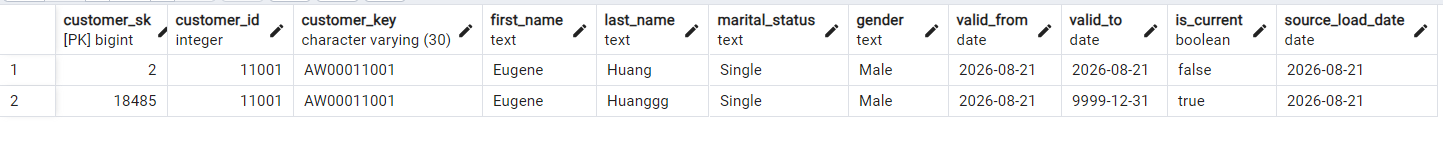
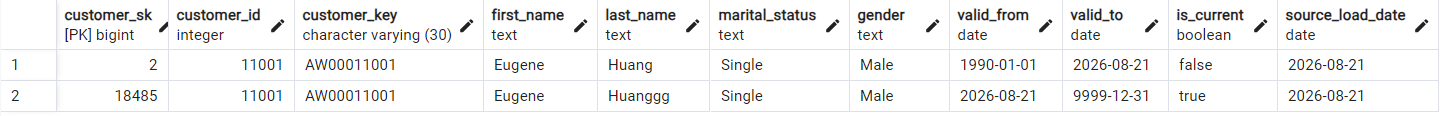
replaced screenshot

diff --git a/docs/content/blog/data-warehouse-postgressql-implementation.md b/docs/content/blog/data-warehouse-postgressql-implementation.md
@@ -186,38 +186,75 @@ BEGIN
 We will use the following star schema dimension model for analytics.  
 ![Star Schema](/images/Dimensional_Model.png)  
 The gold layer will be utilized as views in PostgreSQL.    
-#### Script for creating gold layer customer dimension table as a view  
+#### Script for creating gold layer fact and dimensions as a view  
 ```sql
+
 -- CREATE customer dimension by joining customer, customer_detail and customer_location tables
-DROP VIEW gold.dim_customer;
+DROP VIEW IF EXISTS gold.dim_customer;
 CREATE VIEW gold.dim_customer AS
-SELECT c.customer_sk,
-	   c.customer_id,
-	   c.first_name,
-	   c.last_name,
-	   c.marital_status,
-	   COALESCE(c.gender,cd.gender) as gender,
-	   cd.birth_date,
-	   loc.country,
-	   c.valid_from,
-       c.valid_to,
-       c.is_current
+SELECT 
+    c.customer_sk,
+    c.customer_id,
+    c.customer_key,
+    c.first_name,
+    c.last_name,
+    c.marital_status,
+    COALESCE(c.gender, cd.gender) AS gender,
+    cd.birth_date,
+    loc.country,
+    c.valid_from,
+    c.valid_to,
+    c.is_current
 FROM silver.customer c
-LEFT JOIN silver.customer_location loc
-	ON c.customer_id=loc.customer_id
-	AND loc.valid_from <= c.valid_from
-    AND (loc.valid_to > c.valid_from OR loc.valid_to IS NULL)
-	-- This dimension is only recording customer history. If a location changes but customer doesn't at the same time
-	-- this logic will fail and will take old location value because new locations value_from > customers value_from
-	-- I will fix this later after learning more about these patterns.
-LEFT JOIN silver.customer_details cd
-	ON c.customer_id=cd.customer_id;
+LEFT JOIN silver.customer_location loc 
+    ON c.customer_id = loc.customer_id
+LEFT JOIN silver.customer_details cd 
+    ON c.customer_id = cd.customer_id;
+
+-- CREATE product dimension by joining products and category tables
+DROP VIEW IF EXISTS gold.dim_product;
+CREATE VIEW gold.dim_product AS
+Select p.products_sk,
+	   p.product_number,
+	   p.product_category,
+	   p.product_sales_key,
+	   p.product_name,
+	   p.product_cost,
+	   p.product_line,
+	   c.category_name,
+	   c.sub_category,
+	   c.maintenance_required
+FROM silver.products p
+JOIN silver.category c
+	ON p.product_category=c.category_id;
+
+-- CREATE fact sales view
+DROP VIEW IF EXISTS gold.fact_sales;
+CREATE VIEW gold.fact_sales AS
+SELECT
+    s.sales_id as order_number,
+    s.product_key,
+    c.customer_sk AS customer_sk,
+    s.order_date,
+    s.ship_date,
+	s.due_date,
+	(s.quantity * s.price) as sales_amount,
+	s.quantity,
+	s.price
+FROM silver.sales s
+JOIN silver.customer c 
+    ON s.customer_id = c.customer_id
+    AND s.order_date >= c.valid_from AND (s.order_date < c.valid_to OR c.valid_to IS NULL)
+	-- This means I need to find the version of the customer that was active during the order date.
+JOIN silver.products p 
+    ON s.product_key = p.product_sales_key;
+
 ```
 ### Test SCD Type 2  
 ```sql
--- Update a record in the source table i.e update lastname from 'Huang' to 'Huangg'
+-- Update a record in the source table i.e update lastname from 'Huang' to 'Huanggg'
 UPDATE bronze.crm_cust_info
-SET cst_lastname='Huangg'
+SET cst_lastname='Huanggg'
 where cst_id=11001;
 
 -- Insert data

diff --git a/public/content/blog/data-warehouse-postgressql-implementation.md b/public/content/blog/data-warehouse-postgressql-implementation.md
@@ -186,38 +186,75 @@ BEGIN
 We will use the following star schema dimension model for analytics.  
 ![Star Schema](/images/Dimensional_Model.png)  
 The gold layer will be utilized as views in PostgreSQL.    
-#### Script for creating gold layer customer dimension table as a view  
+#### Script for creating gold layer fact and dimensions as a view  
 ```sql
+
 -- CREATE customer dimension by joining customer, customer_detail and customer_location tables
-DROP VIEW gold.dim_customer;
+DROP VIEW IF EXISTS gold.dim_customer;
 CREATE VIEW gold.dim_customer AS
-SELECT c.customer_sk,
-	   c.customer_id,
-	   c.first_name,
-	   c.last_name,
-	   c.marital_status,
-	   COALESCE(c.gender,cd.gender) as gender,
-	   cd.birth_date,
-	   loc.country,
-	   c.valid_from,
-       c.valid_to,
-       c.is_current
+SELECT 
+    c.customer_sk,
+    c.customer_id,
+    c.customer_key,
+    c.first_name,
+    c.last_name,
+    c.marital_status,
+    COALESCE(c.gender, cd.gender) AS gender,
+    cd.birth_date,
+    loc.country,
+    c.valid_from,
+    c.valid_to,
+    c.is_current
 FROM silver.customer c
-LEFT JOIN silver.customer_location loc
-	ON c.customer_id=loc.customer_id
-	AND loc.valid_from <= c.valid_from
-    AND (loc.valid_to > c.valid_from OR loc.valid_to IS NULL)
-	-- This dimension is only recording customer history. If a location changes but customer doesn't at the same time
-	-- this logic will fail and will take old location value because new locations value_from > customers value_from
-	-- I will fix this later after learning more about these patterns.
-LEFT JOIN silver.customer_details cd
-	ON c.customer_id=cd.customer_id;
+LEFT JOIN silver.customer_location loc 
+    ON c.customer_id = loc.customer_id
+LEFT JOIN silver.customer_details cd 
+    ON c.customer_id = cd.customer_id;
+
+-- CREATE product dimension by joining products and category tables
+DROP VIEW IF EXISTS gold.dim_product;
+CREATE VIEW gold.dim_product AS
+Select p.products_sk,
+	   p.product_number,
+	   p.product_category,
+	   p.product_sales_key,
+	   p.product_name,
+	   p.product_cost,
+	   p.product_line,
+	   c.category_name,
+	   c.sub_category,
+	   c.maintenance_required
+FROM silver.products p
+JOIN silver.category c
+	ON p.product_category=c.category_id;
+
+-- CREATE fact sales view
+DROP VIEW IF EXISTS gold.fact_sales;
+CREATE VIEW gold.fact_sales AS
+SELECT
+    s.sales_id as order_number,
+    s.product_key,
+    c.customer_sk AS customer_sk,
+    s.order_date,
+    s.ship_date,
+	s.due_date,
+	(s.quantity * s.price) as sales_amount,
+	s.quantity,
+	s.price
+FROM silver.sales s
+JOIN silver.customer c 
+    ON s.customer_id = c.customer_id
+    AND s.order_date >= c.valid_from AND (s.order_date < c.valid_to OR c.valid_to IS NULL)
+	-- This means I need to find the version of the customer that was active during the order date.
+JOIN silver.products p 
+    ON s.product_key = p.product_sales_key;
+
 ```
 ### Test SCD Type 2  
 ```sql
--- Update a record in the source table i.e update lastname from 'Huang' to 'Huangg'
+-- Update a record in the source table i.e update lastname from 'Huang' to 'Huanggg'
 UPDATE bronze.crm_cust_info
-SET cst_lastname='Huangg'
+SET cst_lastname='Huanggg'
 where cst_id=11001;
 
 -- Insert data
